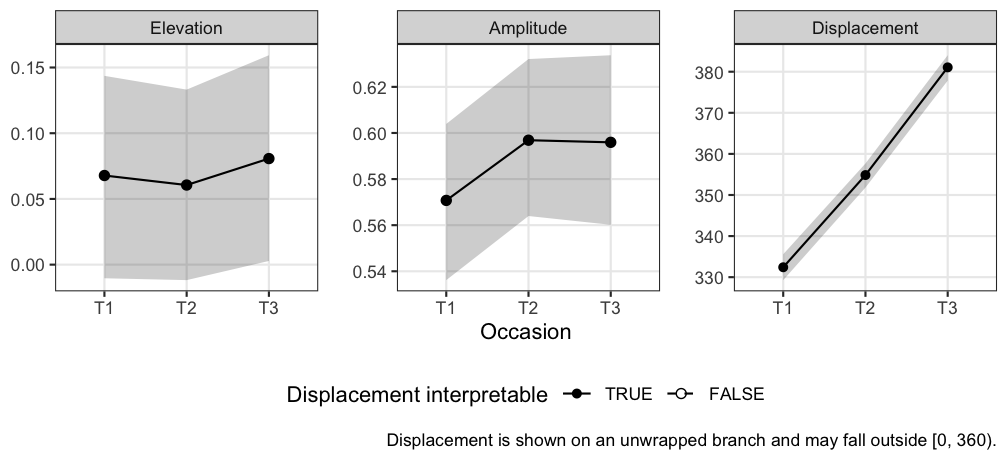
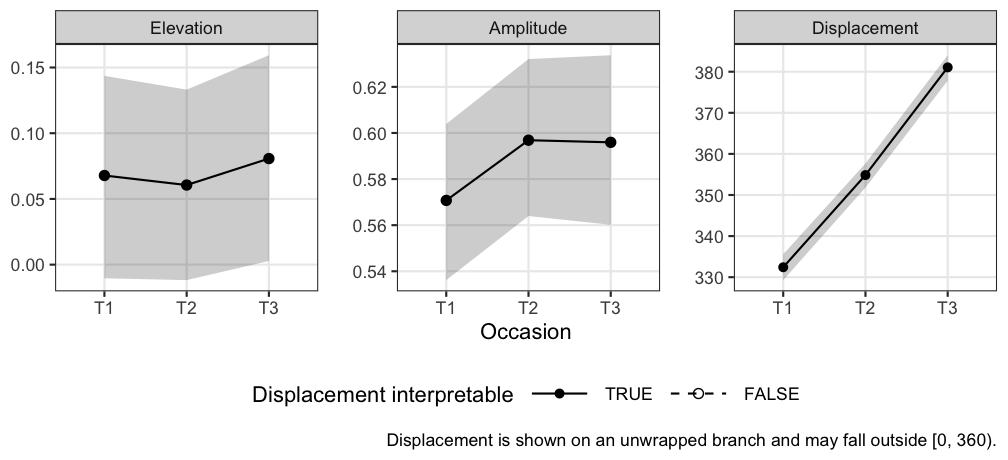
M154: widen the legend key so the dashed key shows; claim-audit fixes

Changed region(s): [[0.246, 0.8217, 0.5843, 0.8826], [0.6766, 0.8217, 0.7996, 0.8826]]

diff --git a/cairn/milestones/M154-dashed-uncertified-segments.md b/cairn/milestones/M154-dashed-uncertified-segments.md
@@ -57,6 +57,7 @@ On the displacement panel of `ssm_plot_trajectory()`, draw each line segment tha
 - 2026-09-24: T2 done. `ssm_trajectory_segments()` builds the per-pair frame. The displacement panel is always a segment layer, with a linetype scale only under a verdict, so the no-verdict baseline changed in form (four `<line>` elements for one `<polyline>`) with no visible change. A second `override.aes` on the merged guide warned and was dropped. Six vdiffr baselines regenerated under `NOT_CRAN=true`; the uncertified table baseline reads dashed, dashed, dashed, solid as AC1 predicts. Render inspected by eye.
 - 2026-09-24: T3 done. Help-page paragraph extended, `document()` clean with no link warning, NEWS bullet under Minor improvements and fixes.
 - 2026-09-24: T4 done. Both vignettes re-rendered against the installed tree. Rendered text differs only in the new paragraphs. Three trajectory figures changed and were inspected: the growth Section 6 figure shows dashed segments either side of wave 2, and both legends show the line types. Four advanced-visualization figures that draw no trajectory changed bytes in the re-render (LESSONS M112) and were restored from HEAD.
+- 2026-09-24: claim audit: 22 claims read, 2 corrected — R/ssm_trajectory.R, tests/testthat/test-ssm_trajectory_table.R. The dashed legend key read as solid at the default key width because the dash gap fell under the point, so the theme now widens `legend.key.width` to 2.4 lines. A test comment named the wrong reason for assigning the verdict by name. Baselines regenerated and both vignettes re-rendered again after the width change.
 
 ## Decisions
 
